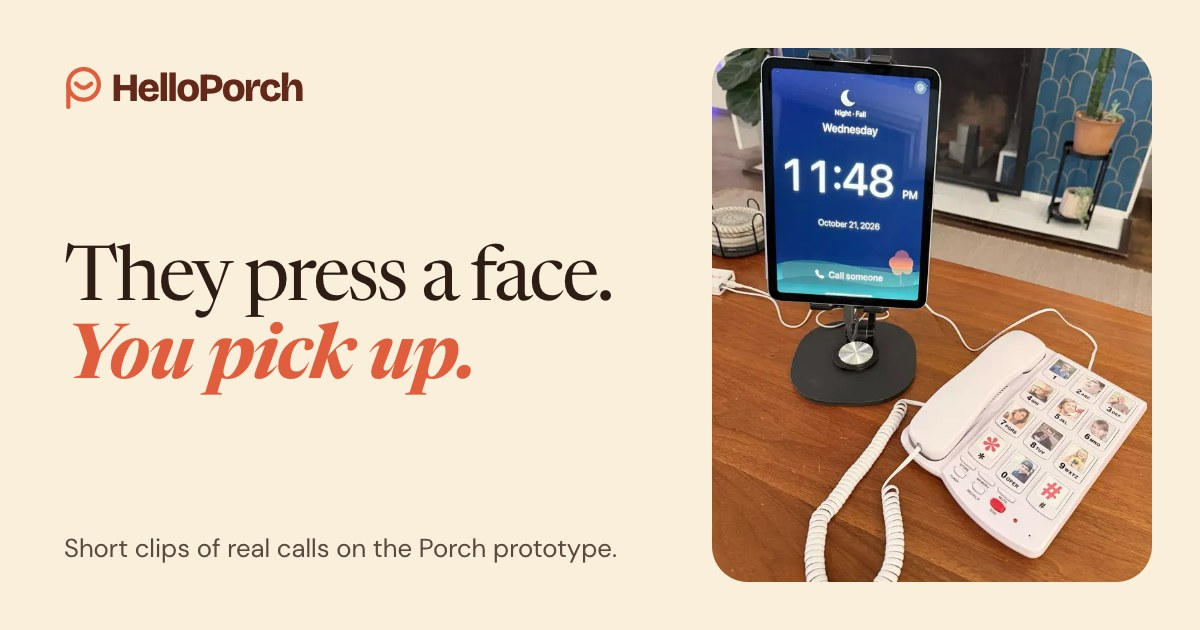
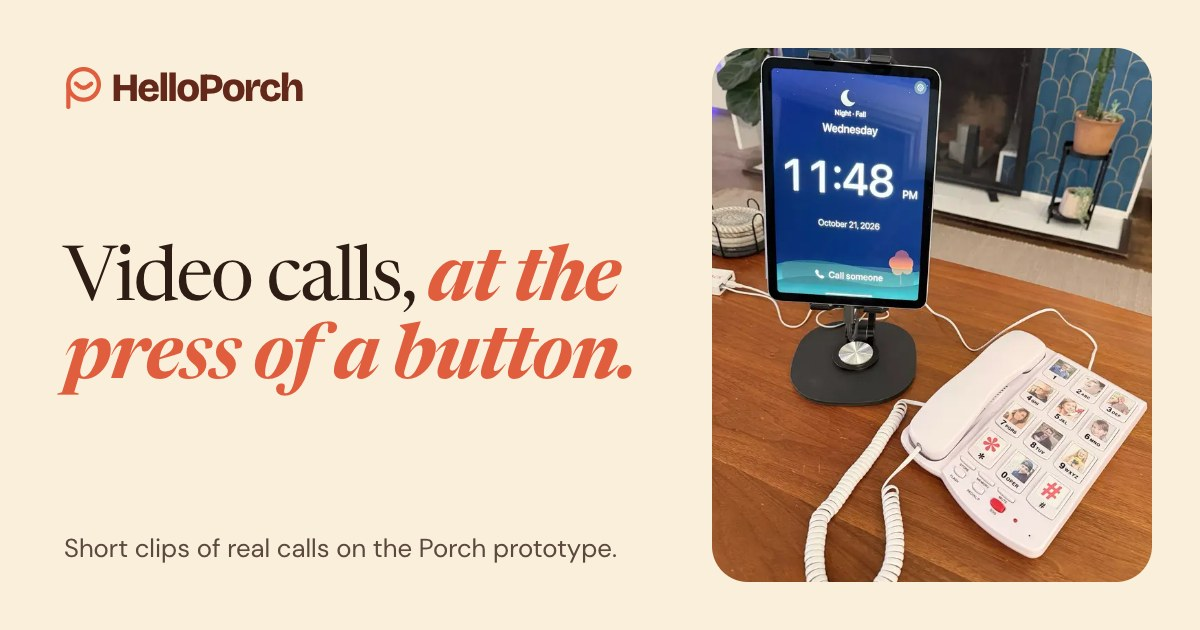
Lead /features with "Video calls, at the press of a button."
Replaces "They press a face. You pick up." in the headline, the share title, the
link card's alt text, and the 1200x630 card in public/og/features.jpg.

Changed region(s): [[0.0308, 0.3921, 0.5242, 0.6333]]

diff --git a/app/(site)/features/page.tsx b/app/(site)/features/page.tsx
@@ -18,8 +18,8 @@ export const metadata: Metadata = pageMetadata({
   title: "See How It Works | HelloPorch",
   description:
     "Watch how Porch works: they press a face to call, Porch answers approved family for them, messages play on their own, and it speaks their language.",
-  shareTitle: "They press a face. You pick up.",
-  image: { url: "/og/features.jpg", alt: "HelloPorch: They press a face. You pick up. Beside the Porch prototype, a tablet and a big-button phone." },
+  shareTitle: "Video calls, at the press of a button.",
+  image: { url: "/og/features.jpg", alt: "HelloPorch: Video calls, at the press of a button. Beside the Porch prototype, a tablet and a big-button phone." },
 });
 
 export default function FeaturesPage() {
@@ -32,7 +32,7 @@ export default function FeaturesPage() {
           <header className={story.hero}>
             <div className={story.heroCopy}>
               <h1 className={story.title}>
-                They press a face. <em>You pick up.</em>
+                Video calls, <em>at the press of a button.</em>
               </h1>
               <p className={story.lede}>
                 Porch makes video calling easy for people who struggle with phones. It’s a tablet and big-button phone with
